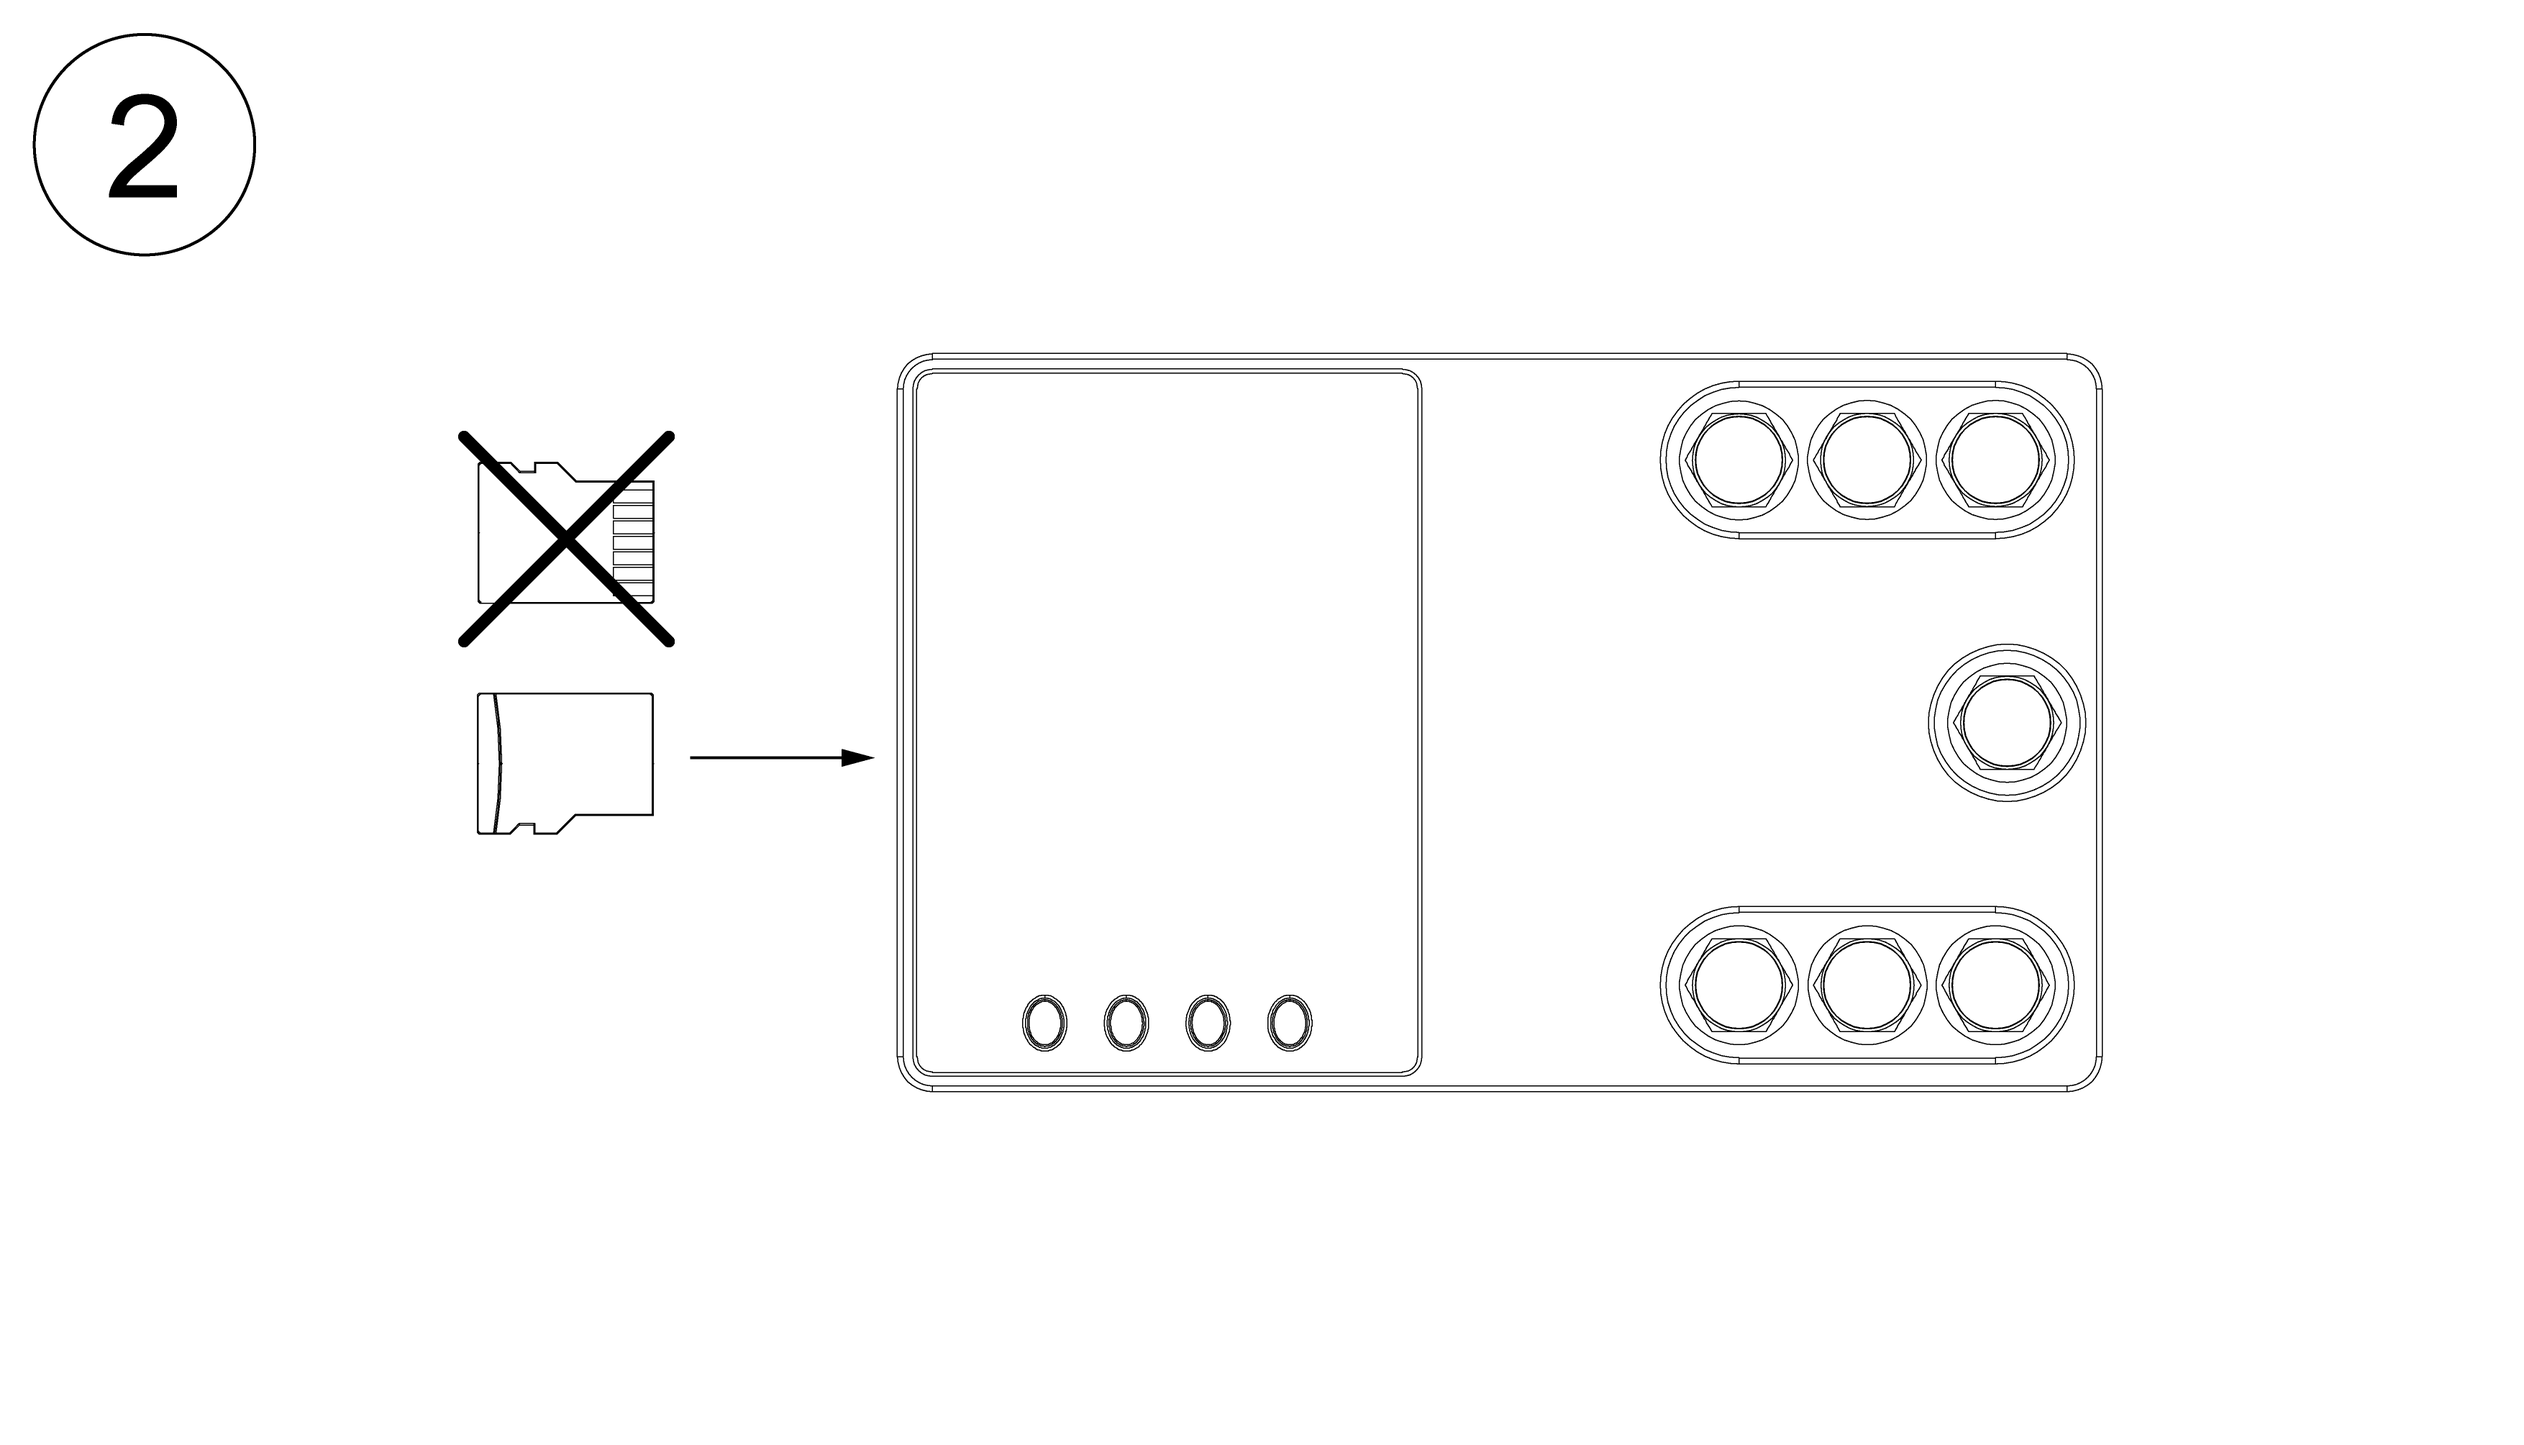
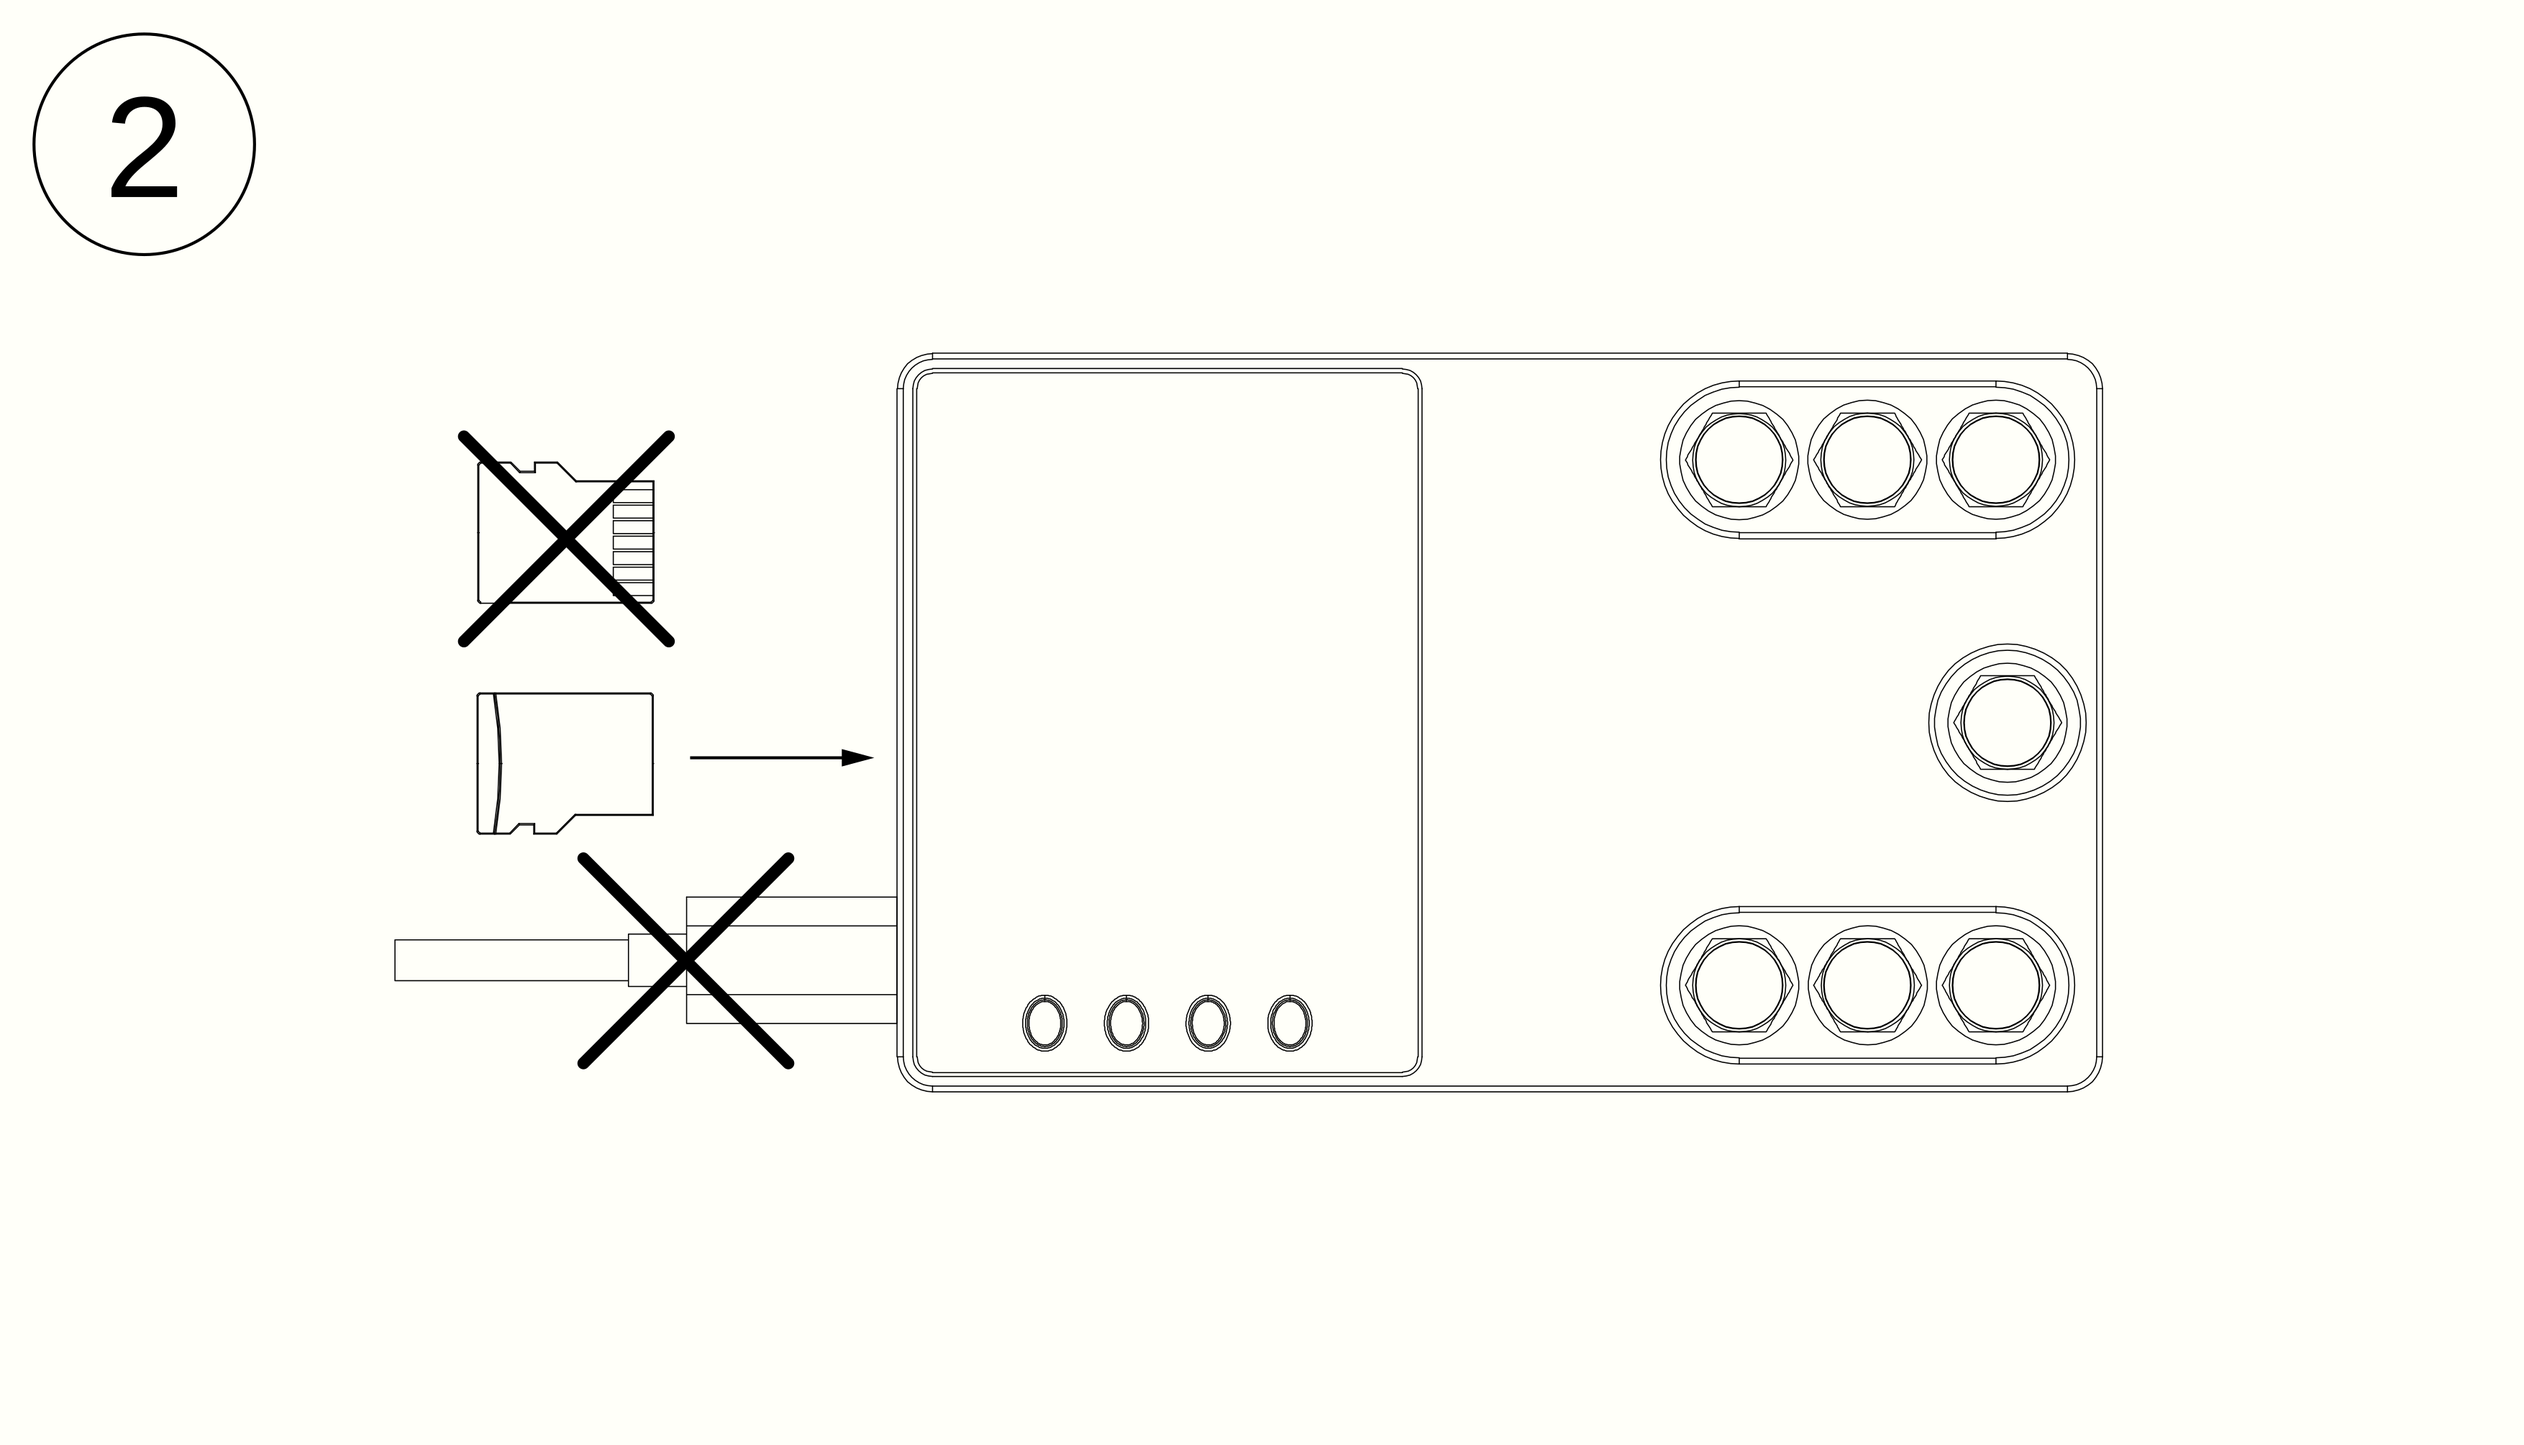
doc: add MGF comments to flashing guide

diff --git a/docs/flash_image_guide.md b/docs/flash_image_guide.md
@@ -12,10 +12,16 @@ If the Etcher softwar fails, or the device fails to boot, try using a different 
 <div style="margin: 2rem"></div>
 
 <img src="/images/flashing_procedure-01.png" style="width: auto; border: 1px solid black;" />
-Download and install the Etcher software. Once installed, choose the .sdcard file, select the target device, and then click 'Flash!' to create the micro SD card.<div style="margin: 2rem"></div>
+Download and install the Etcher software. Once installed, choose the .sdcard file, select the target device, and then click 'Flash!' to create the micro 
+SD card.
+
+NOTE: On windows computers etcher must be [run as administrator](https://learn.microsoft.com/en-us/troubleshoot/windows-server/shell-experience/use-run-as-start-app-admin), otherwise sometimes the flash fails.
+
+
+<div style="margin: 2rem"></div>
 
 <img src="/images/flashing_procedure-02.png" style="width: auto; border: 1px solid black;" />
-Insert the card with the contacts facing down. The slot is **push-push** (push until 'click' to insert the card, push until 'click' to remove the card)
+**With the device powered down**, insert the card with the contacts facing down. The slot is **push-push** (push until 'click' to insert the card, push until 'click' to remove the card)
 <div style="margin: 2rem"></div>
 
 <img src="/images/flashing_procedure-03.png" style="width: auto; border: 1px solid black;" />
@@ -37,4 +43,4 @@ The button is somewhat difficult to press, and the 'click' feeling is very soft.
 <img src="/images/flash_cpu.gif" style="width: auto; border: 1px solid black;" />
 After a few seconds, the installation process begins. The device LEDs FIX, LOG, and NET will blink in the pattern shown above.
 
-The Operating System installation typically takes between 2 to 5 minutes, varying based on the quality and wear of the SD card. Upon completion of the process, the three LEDs will illuminate in green for a brief period, and the device will then reboot using the installed operating system.
+The Operating System installation typically takes between 2 to 5 minutes, varying based on the quality and wear of the SD card. Upon completion of the process, the three LEDs will illuminate in green for a brief period, and the device will then reboot using the installed operating system. The SD card can be removed now.
